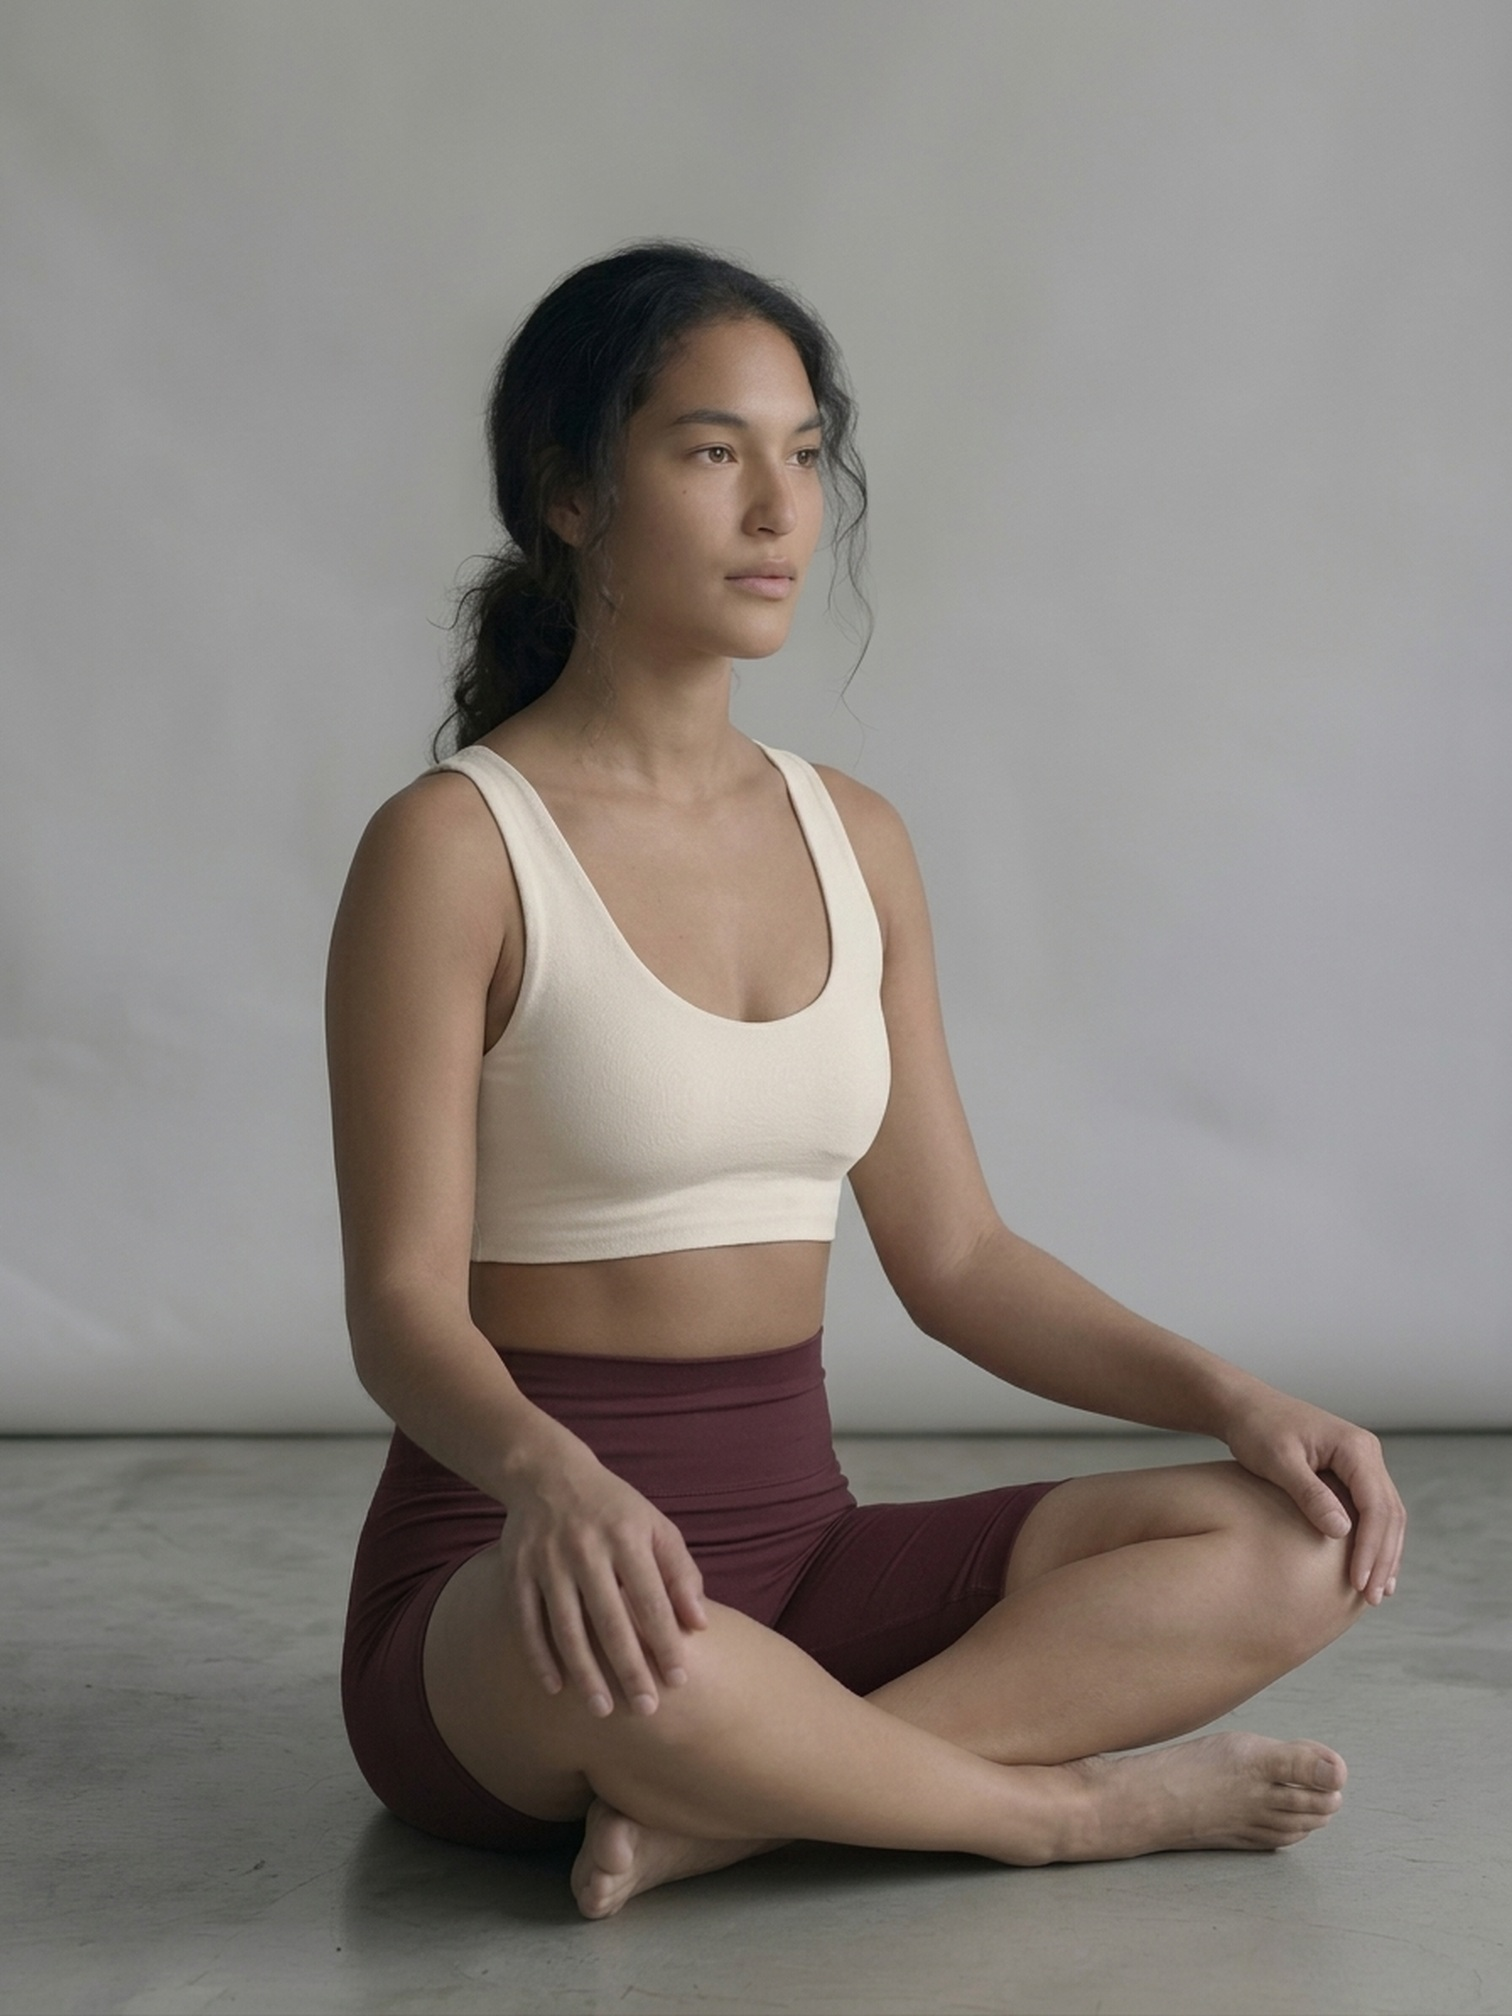
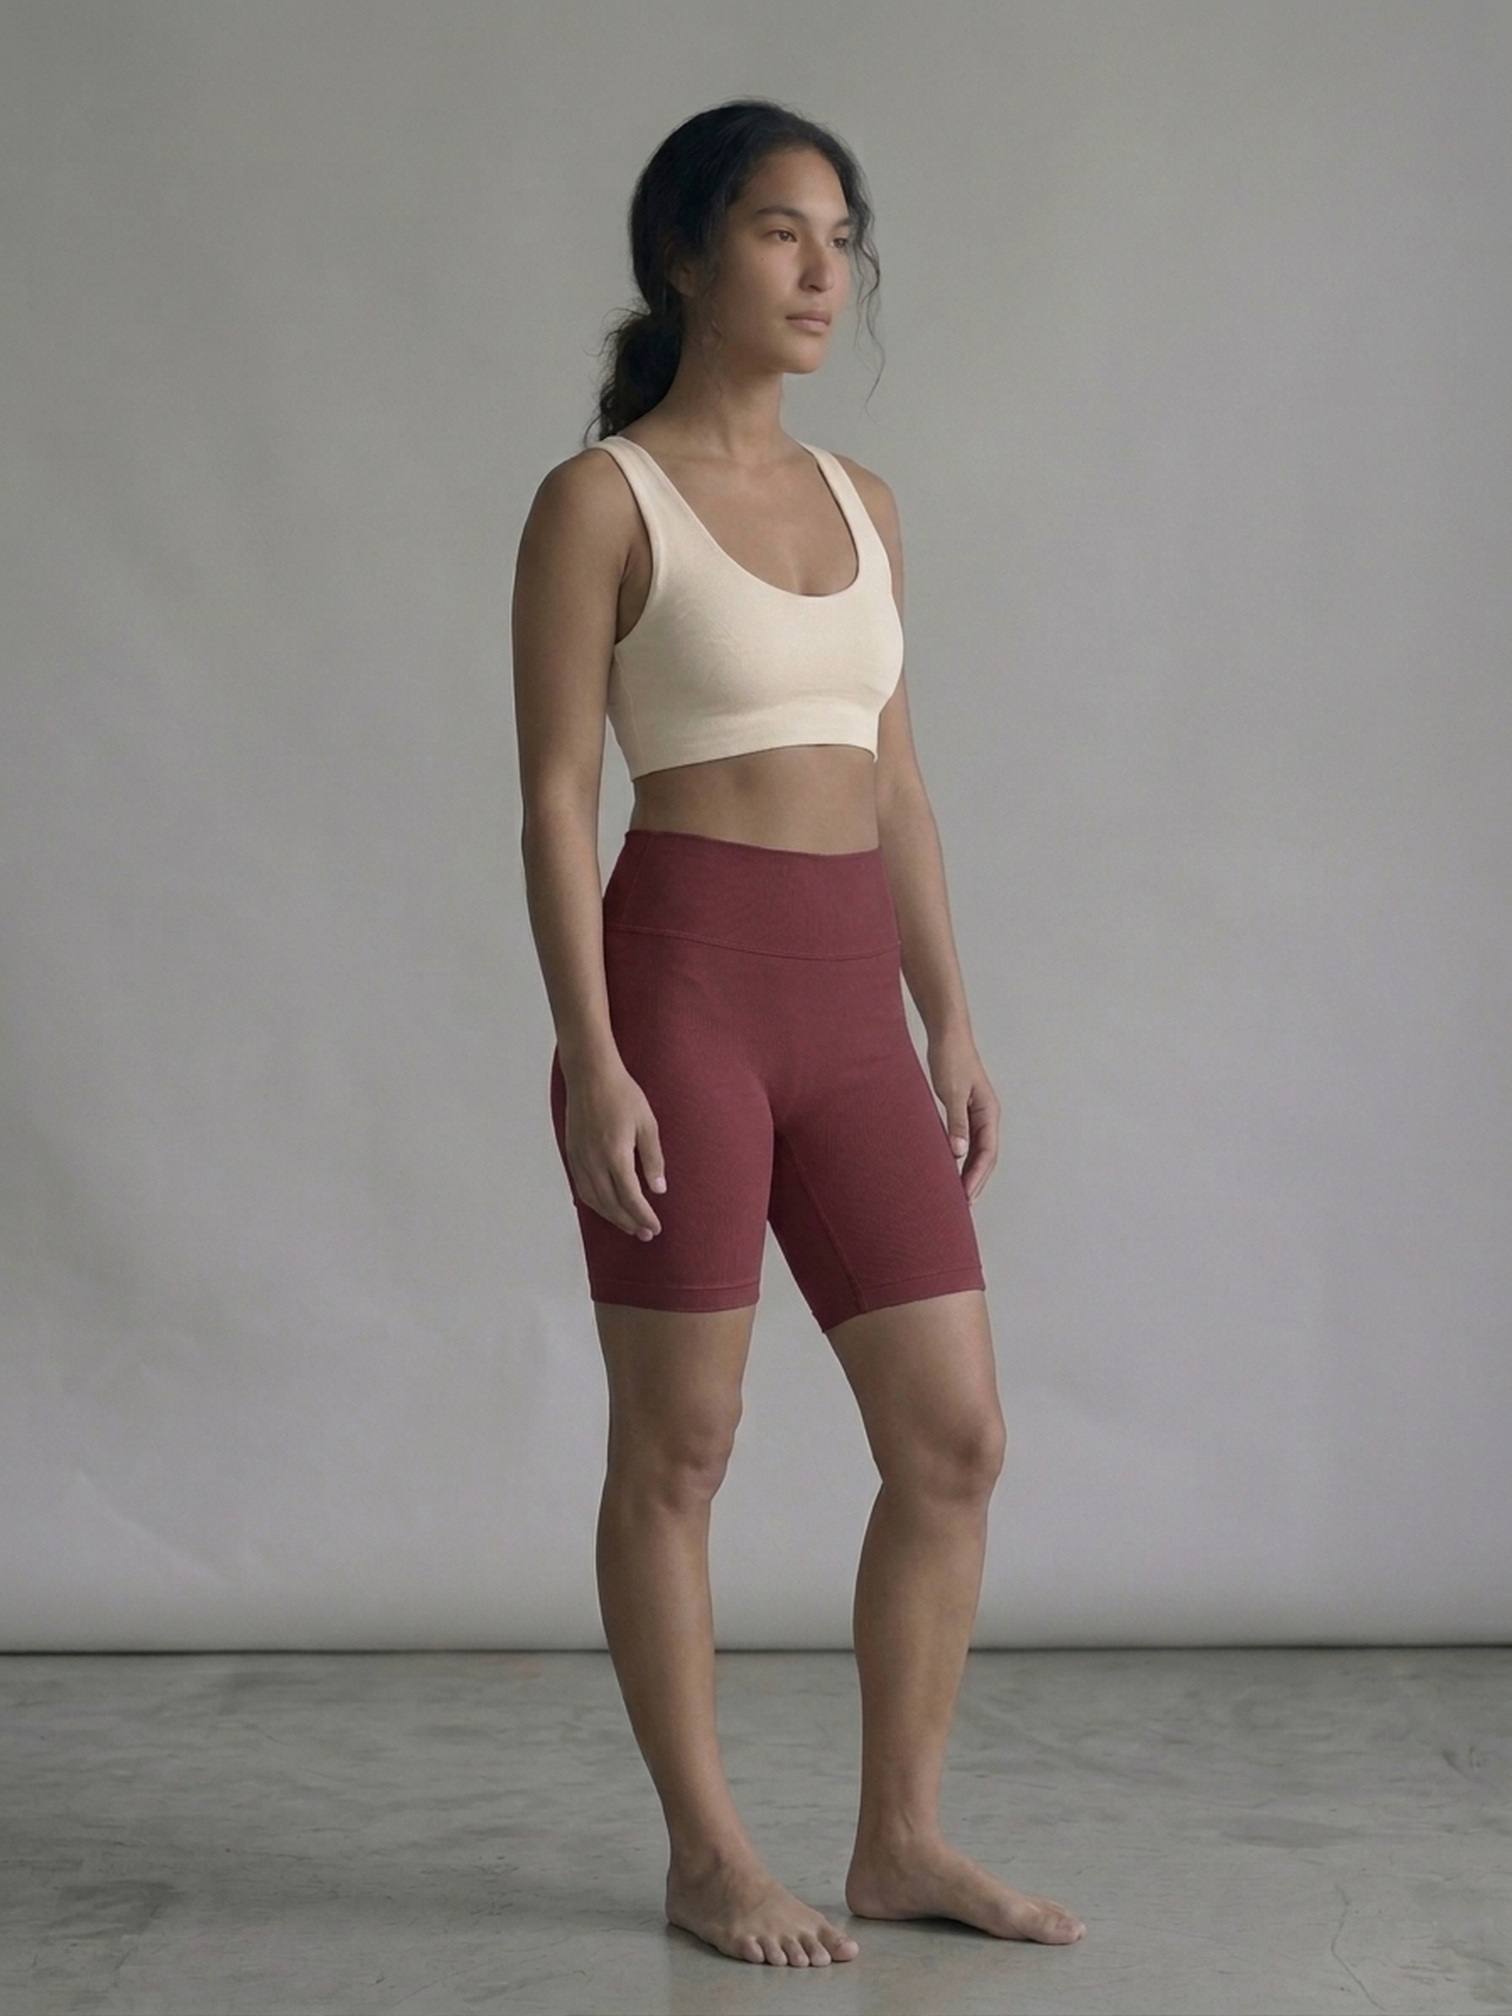
Regenerate short product photos in a standing pose (shorts were barely visible)
The seated cross-legged pose used for the crop-top recolor (both colorways)
hid most of the shorts behind the model's arm/legs — a bad choice for a
product photo where the garment itself needs to be visible. Went back into
the same Gemini thread and, using the already-established cream top as the
reference, generated a standing 3/4-view pose that shows the shorts full
length on both legs, then did the same same-thread color-edit trick (maroon
-> pink) to keep the two colorways pixel-consistent (verified: ~2/255 mean
off-garment diff, same level as the seated pair).

Also bumps products.js's own script-tag cache-buster (v16->v17) per the
lesson from the previous commit — needed every time products.js content
changes, not just the image version numbers inside it.

Claude-Session: https://claude.ai/code/session_019ptV41kxtywRMGKV162Qyj

diff --git a/assets/products.js b/assets/products.js
@@ -89,10 +89,10 @@ window.COVERLINE_PRODUCTS = [
     sizes: ["S","M","L","XL"],
     proof: "Passes the squat test. Longer than the usual gym short.",
     colors: [
-      { key: "maroon", label: "Maroon", hex: "#5b2430", image: "/assets/product-images/short-maroon.jpg?v=17" },
-      { key: "pink", label: "Pink", hex: "#c79a9d", image: "/assets/product-images/short-pink.jpg?v=17" }
+      { key: "maroon", label: "Maroon", hex: "#5b2430", image: "/assets/product-images/short-maroon.jpg?v=18" },
+      { key: "pink", label: "Pink", hex: "#c79a9d", image: "/assets/product-images/short-pink.jpg?v=18" }
     ],
-    image: "/assets/product-images/short-maroon.jpg?v=17",
+    image: "/assets/product-images/short-maroon.jpg?v=18",
     swatch: function(){ return '<rect width="300" height="400" fill="var(--paper-raised)"/><path d="M0,270 C 100,320 200,240 300,280 L300,400 L0,400 Z" fill="var(--accent-2)" opacity=".5"/><path d="M0,170 C 100,220 200,120 300,180" fill="none" stroke="var(--accent)" stroke-width="1"/>'; }
   }
 ];

diff --git a/product.html b/product.html
@@ -73,7 +73,7 @@
   </div>
 </footer>
 
-<script src="/assets/products.js?v=16"></script>
+<script src="/assets/products.js?v=17"></script>
 <script src="/assets/sizecharts.js?v=2"></script>
 <script src="/assets/reviews.js?v=1"></script>
 <script src="/assets/config.js?v=2"></script>

diff --git a/index.html b/index.html
@@ -99,7 +99,7 @@
   </div>
 </footer>
 
-<script src="/assets/products.js?v=16"></script>
+<script src="/assets/products.js?v=17"></script>
 <script src="/assets/config.js?v=2"></script>
 <script src="/assets/cart.js?v=4"></script>
 <script>
